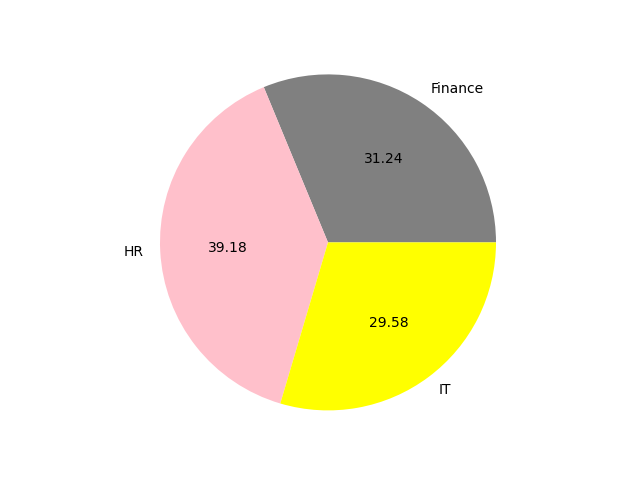
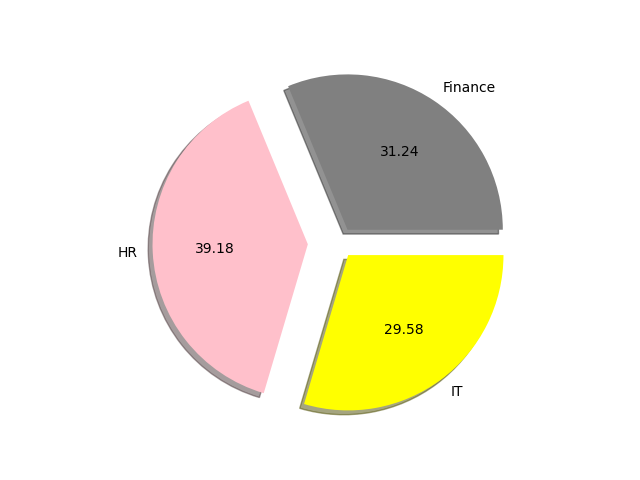
created

diff --git a/piechartNC.py b/piechartNC.py
@@ -7,7 +7,7 @@ data = {
 }
 df = pd.DataFrame(data)
 salary_by_dept = df.groupby("Dept")["salary"].sum()
-plt.pie(salary_by_dept,labels=salary_by_dept.index,colors=["grey","pink","yellow"],autopct="%1.2f")
+plt.pie(salary_by_dept,labels=salary_by_dept.index,colors=["grey","pink","yellow"],autopct="%1.2f",shadow = True,explode=[0.1,0.2,0.1])
 plt.axis("equal")
 plt.show()
 #Refer figure 11
